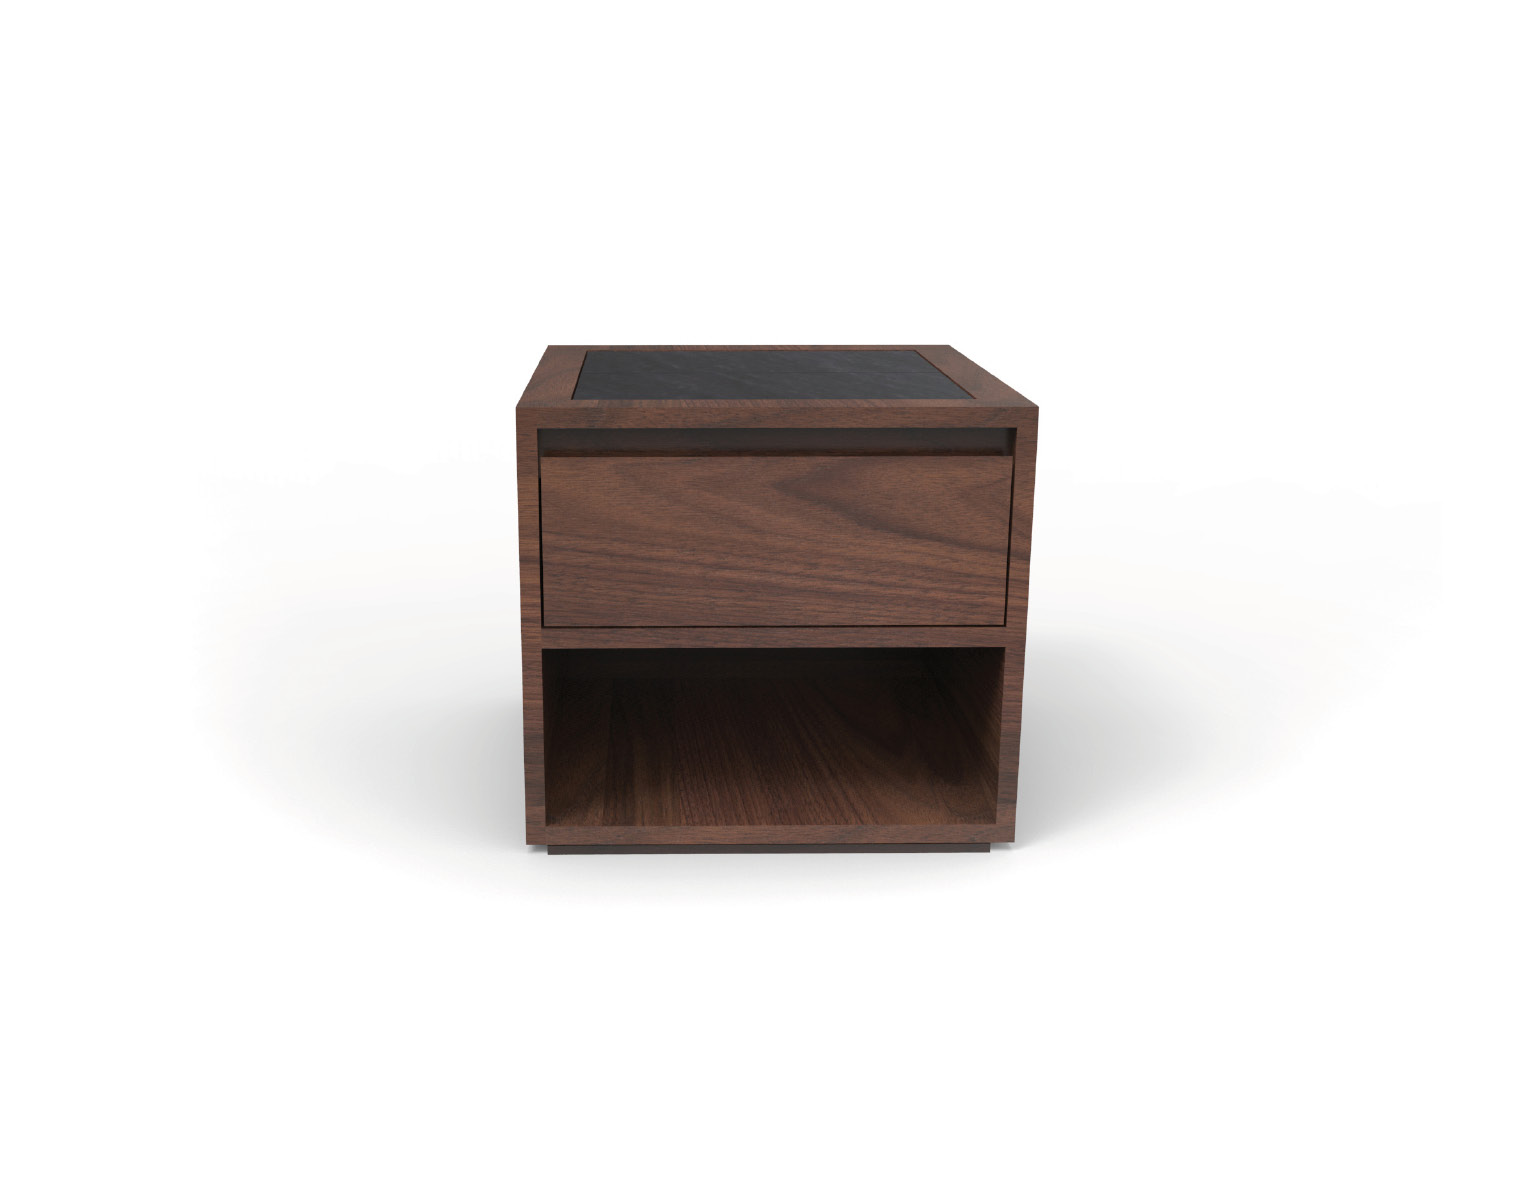
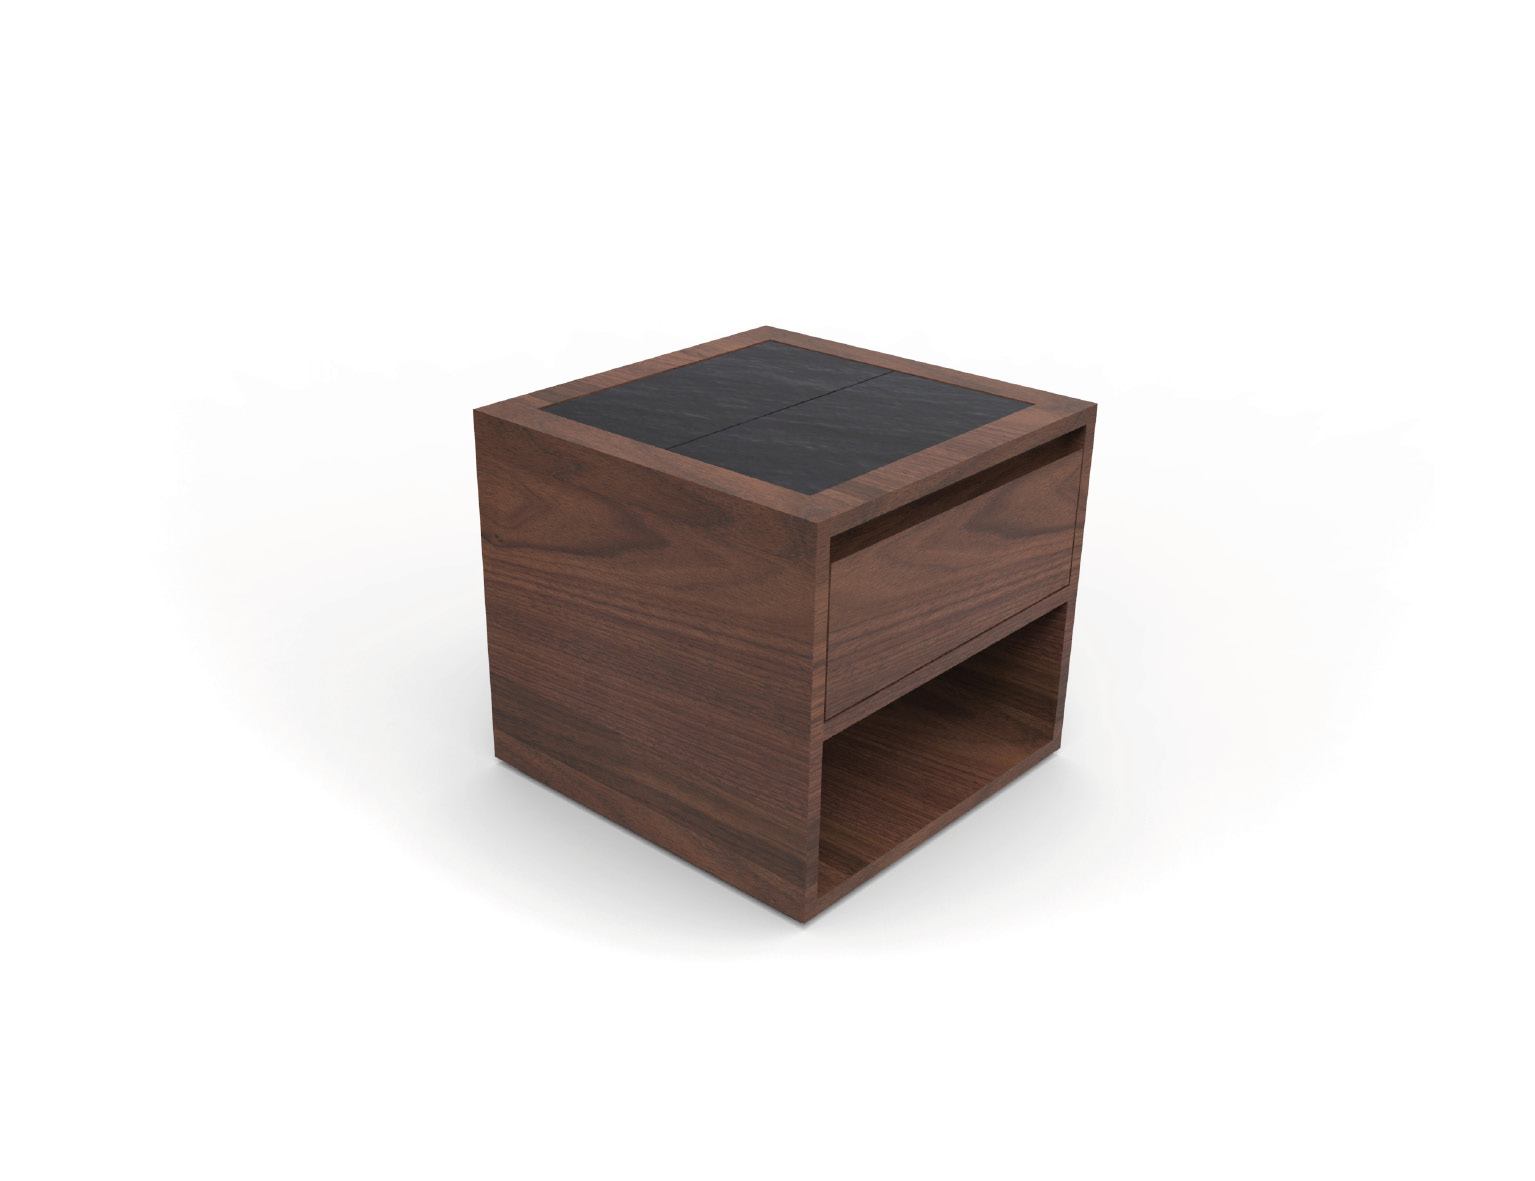
Update Joy

Changed region(s): [[0.3062, 0.2743, 0.7655, 0.7925]]

diff --git a/React-version/je_design/src/travaux.js b/React-version/je_design/src/travaux.js
@@ -7,7 +7,7 @@ const travaux = {
             title: 'TABLE DE CHEVET',
             name : 'Table de chevet',
             images: 'mobilier/chevet/WSchevet1.jpg, mobilier/chevet/WSchevet2.jpg',
-            verticale:'mobilier/chevet/WSchevet3.jpg',
+            verticale:'mobilier/chevet/WSchevet3V.jpg',
             content: 'Table de chevet, noyer américain et plateau ardoise. © Ynot'
         },
         mobilier2: {
@@ -50,11 +50,12 @@ const travaux = {
             modele2Content:'Pyrrhos est un poêle à bois conçu pour venir épouser le coin d’une pièce. Le foyer à toujours possédé un rôle central dans l’habitat. Il rassemble et confère une ambiance rassurante. Se servir de ses caractéristiques pour dynamiser les angles de l’habitat qui selon G. Bachelard ne sont que froideur et répulsifs, apporte une solution pour réhabiliter des espaces rarement mis à profit. Pyrrhos, plus qu’un poêle,intègre les usages et rituels de l’homme autour de l’élément feu. Venir s’asseoir autour du foyer à la manière d’un feu de camp, choisir la distance d’assise pour être plus ou moins réchauffé, instaurer un espace convivial… Ces éléments ont inspiré la forme de ce poêle. La structure séparée en deux branches permet à plusieurs personnes de bénéficier d’une chaleur indirecte, et de chauffer plus rapidement les murs de l’habitation. Cette chaleur retransmise en partie par les assises est également mise à profit pour servir de rangement du bois. Elle garde et fait sécher les buches pour une combustion idéale. La forme du poêle est constituée de formes simples, répétées entre elles, réfléchies pour simplifier le moulage et diminuer le coût de production.'
         },
     },
-    remplissage:{
-        images: 'design_interieur/JOY-3.jpg',
-        content: 'Lorem ipsum dolor sit amet, consectetur adipiscing elit, sed do eiusmod tempor incididunt ut labore et dolore magna aliqua. Magna fringilla urna porttitor rhoncus dolor purus non enim. Phasellus faucibus scelerisque eleifend donec pretium vulputate sapien nec. Mollis aliquam ut porttitor leo a diam sollicitudin tempor id. Imperdiet massa tincidunt nunc pulvinar sapien et ligula ullamcorper malesuada. Dolor sit amet consectetur adipiscing elit pellentesque habitant morbi. Ornare lectus sit amet est placerat. Arcu bibendum at varius vel pharetra vel turpis. Massa massa ultricies mi quis hendrerit. At imperdiet dui accumsan sit amet nulla facilisi morbi. Maecenas sed enim ut sem viverra aliquet eget sit. Quisque non tellus orci ac auctor. Viverra accumsan in nisl nisi scelerisque eu ultrices. Massa id neque aliquam vestibulum morbi blandit cursus risus. Maecenas ultricies mi eget mauris pharetra et.em'
+    interiorDesign:{
+        joy:{
+            modele2: 'design_interieur/JOY-3.jpg',
+            modele2Content: 'Lorem ipsum dolor sit amet, consectetur adipiscing elit, sed do eiusmod tempor incididunt ut labore et dolore magna aliqua. Magna fringilla urna porttitor rhoncus dolor purus non enim. Phasellus faucibus scelerisque eleifend donec pretium vulputate sapien nec. Mollis aliquam ut porttitor leo a diam sollicitudin tempor id. Imperdiet massa tincidunt nunc pulvinar sapien et ligula ullamcorper malesuada. Dolor sit amet consectetur adipiscing elit pellentesque habitant morbi. Ornare lectus sit amet est placerat. Arcu bibendum at varius vel pharetra vel turpis. Massa massa ultricies mi quis hendrerit. At imperdiet dui accumsan sit amet nulla facilisi morbi. Maecenas sed enim ut sem viverra aliquet eget sit. Quisque non tellus orci ac auctor. Viverra accumsan in nisl nisi scelerisque eu ultrices. Massa id neque aliquam vestibulum morbi blandit cursus risus. Maecenas ultricies mi eget mauris pharetra et.em'
+        }
     }
-
 }
 
 export default travaux

diff --git a/React-version/je_design/src/App.js b/React-version/je_design/src/App.js
@@ -30,7 +30,7 @@ const App = () => {
                 <Route path="/mobilier/chaise" component={() => <Template1  categorie='mobilier' id='mobilier5'/>} />
                 <Route path='/sketches' component={Construction}/>
                 <Route exact path="/interior" component={Construction} />
-                <Route path="/interior/resto" component={Construction} />
+                <Route path="/interior/resto" component={ () => <Template2 categorie='interiorDesign' id='joy'/>} />
                 <Route path="/contact" component={Construction} />
             </Switch>
         </BrowserRouter>

diff --git a/React-version/je_design/src/Components/Template1/Template1.css b/React-version/je_design/src/Components/Template1/Template1.css
@@ -7,7 +7,7 @@
     justify-content: center;
     align-content: center;
     align-items: center;
-    margin: 0.5em;
+    margin: auto auto;
   }
   
 /*Container images*/
